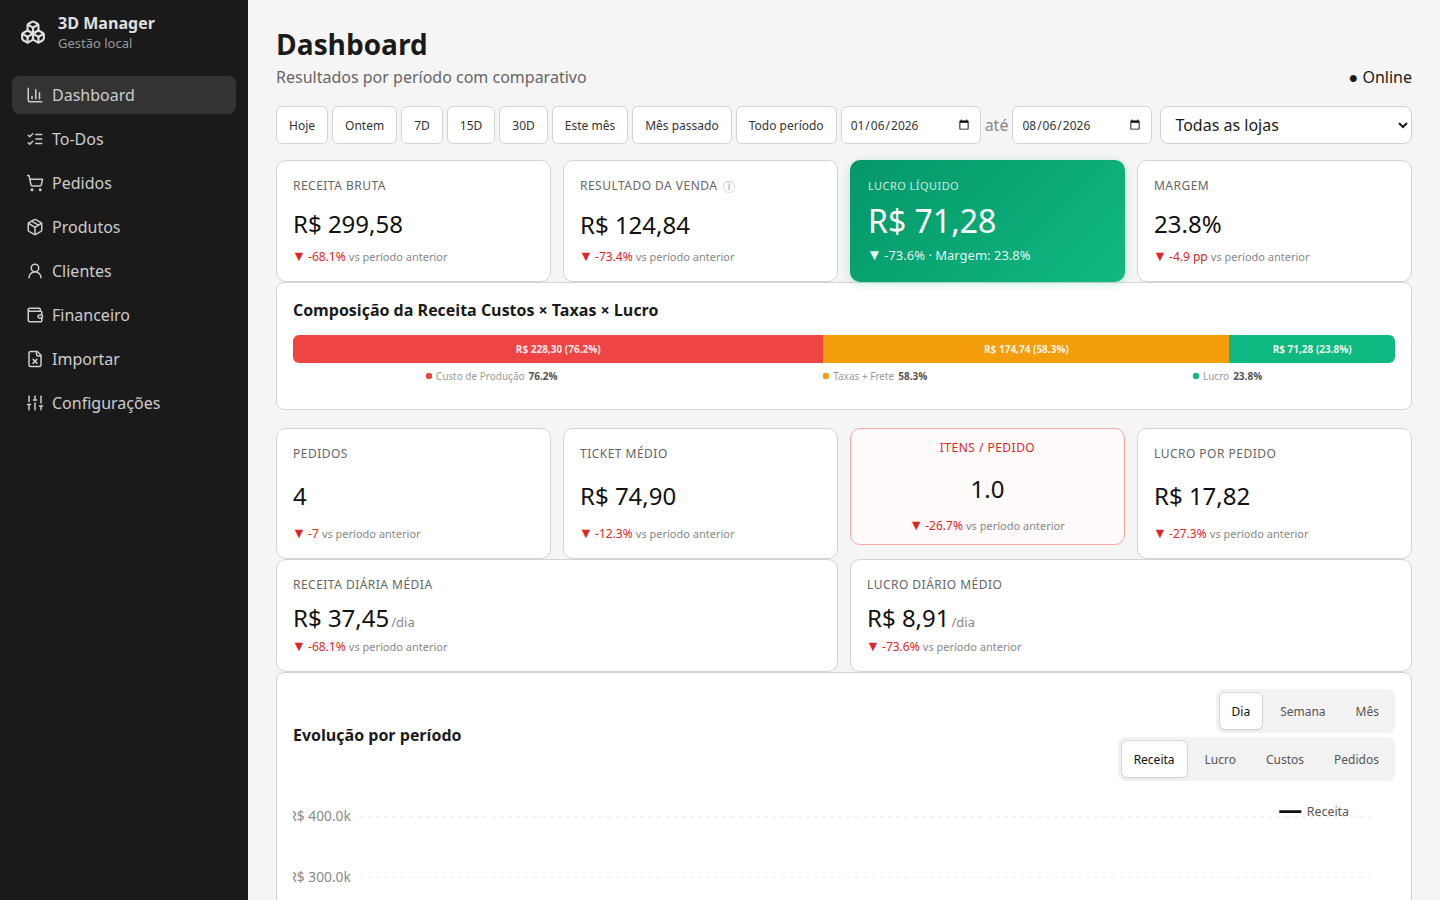
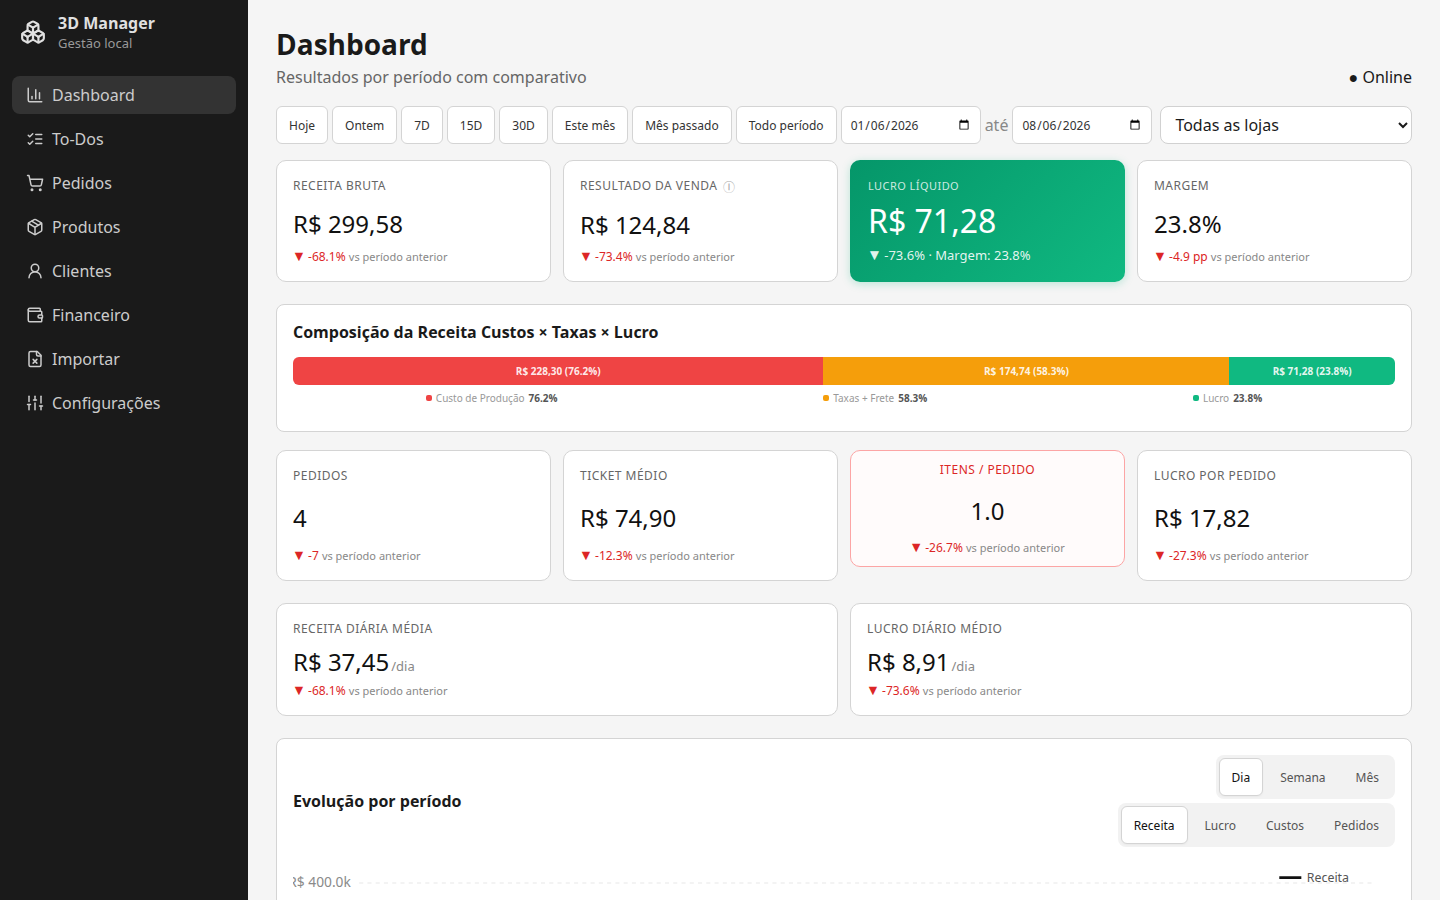
style: mais espacamento entre kpi-row e o card da barra no dashboard

diff --git a/src/styles.css b/src/styles.css
@@ -240,7 +240,10 @@ h2 {
   display: grid;
   grid-template-columns: repeat(auto-fit, minmax(180px, 1fr));
   gap: 12px;
+  margin-bottom: 22px;
 }
+
+.kpi-section .kpi-row { margin-bottom: 0; }
 
 .kpi-card {
   background: #fff;
